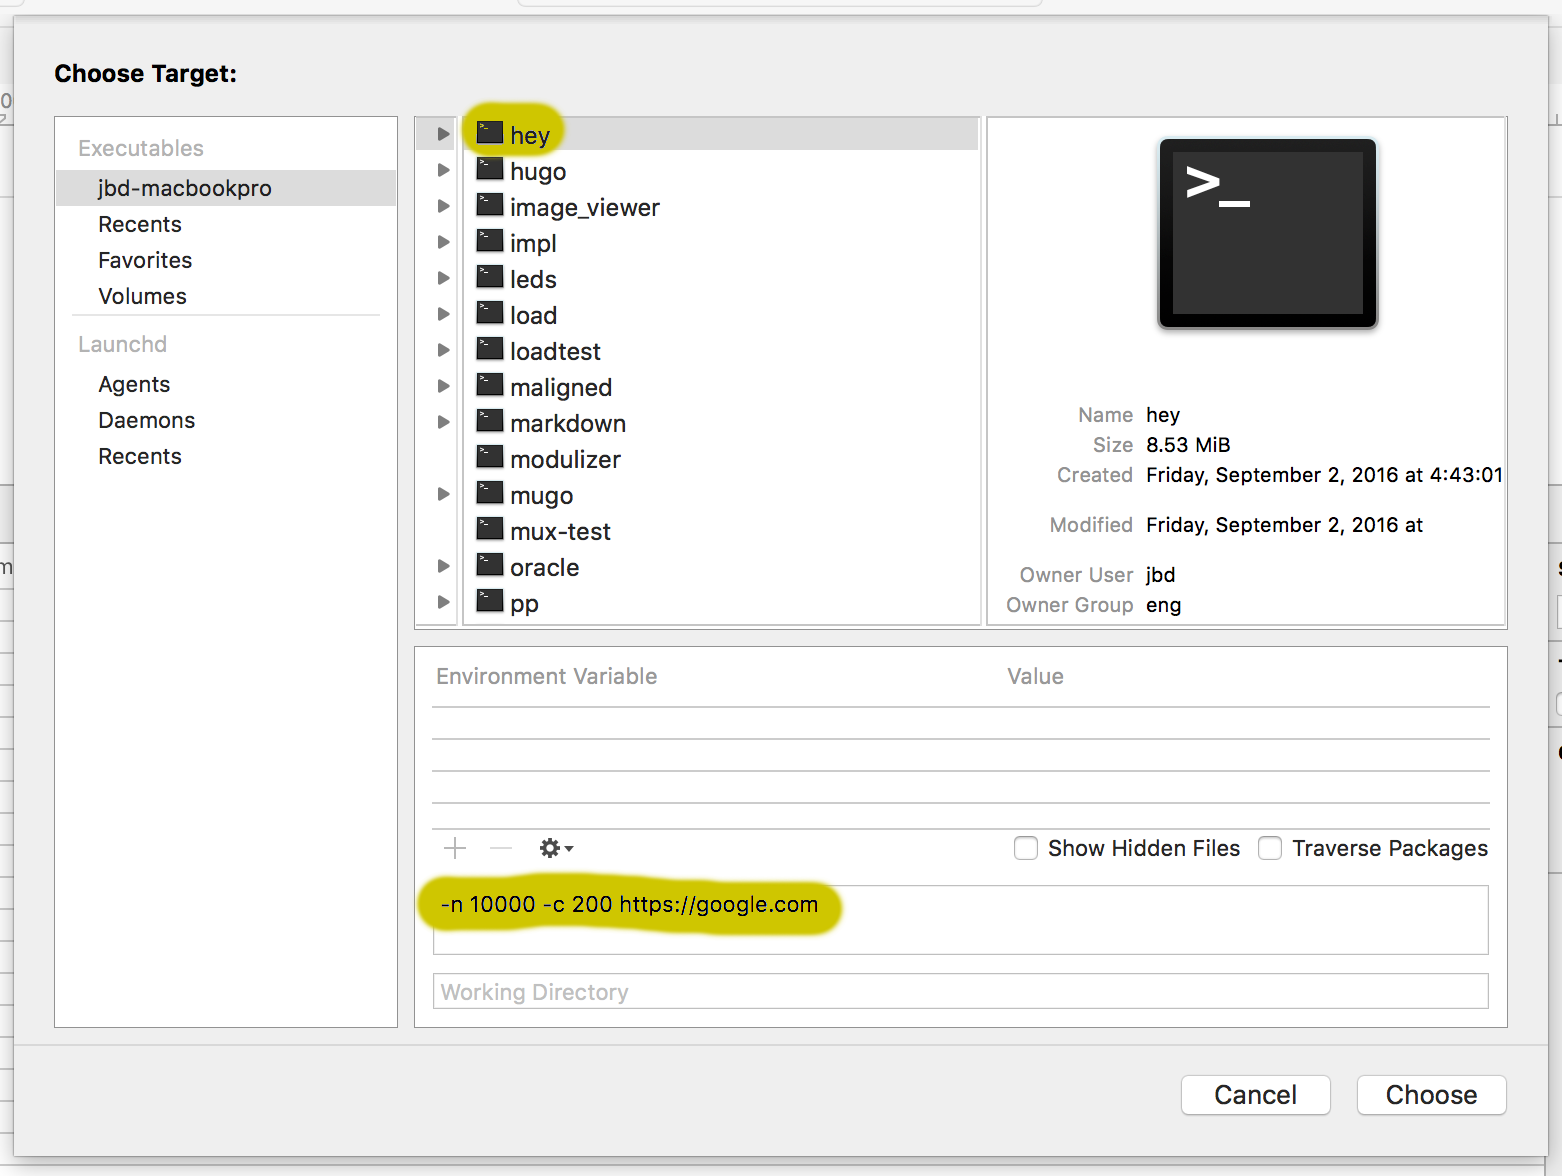
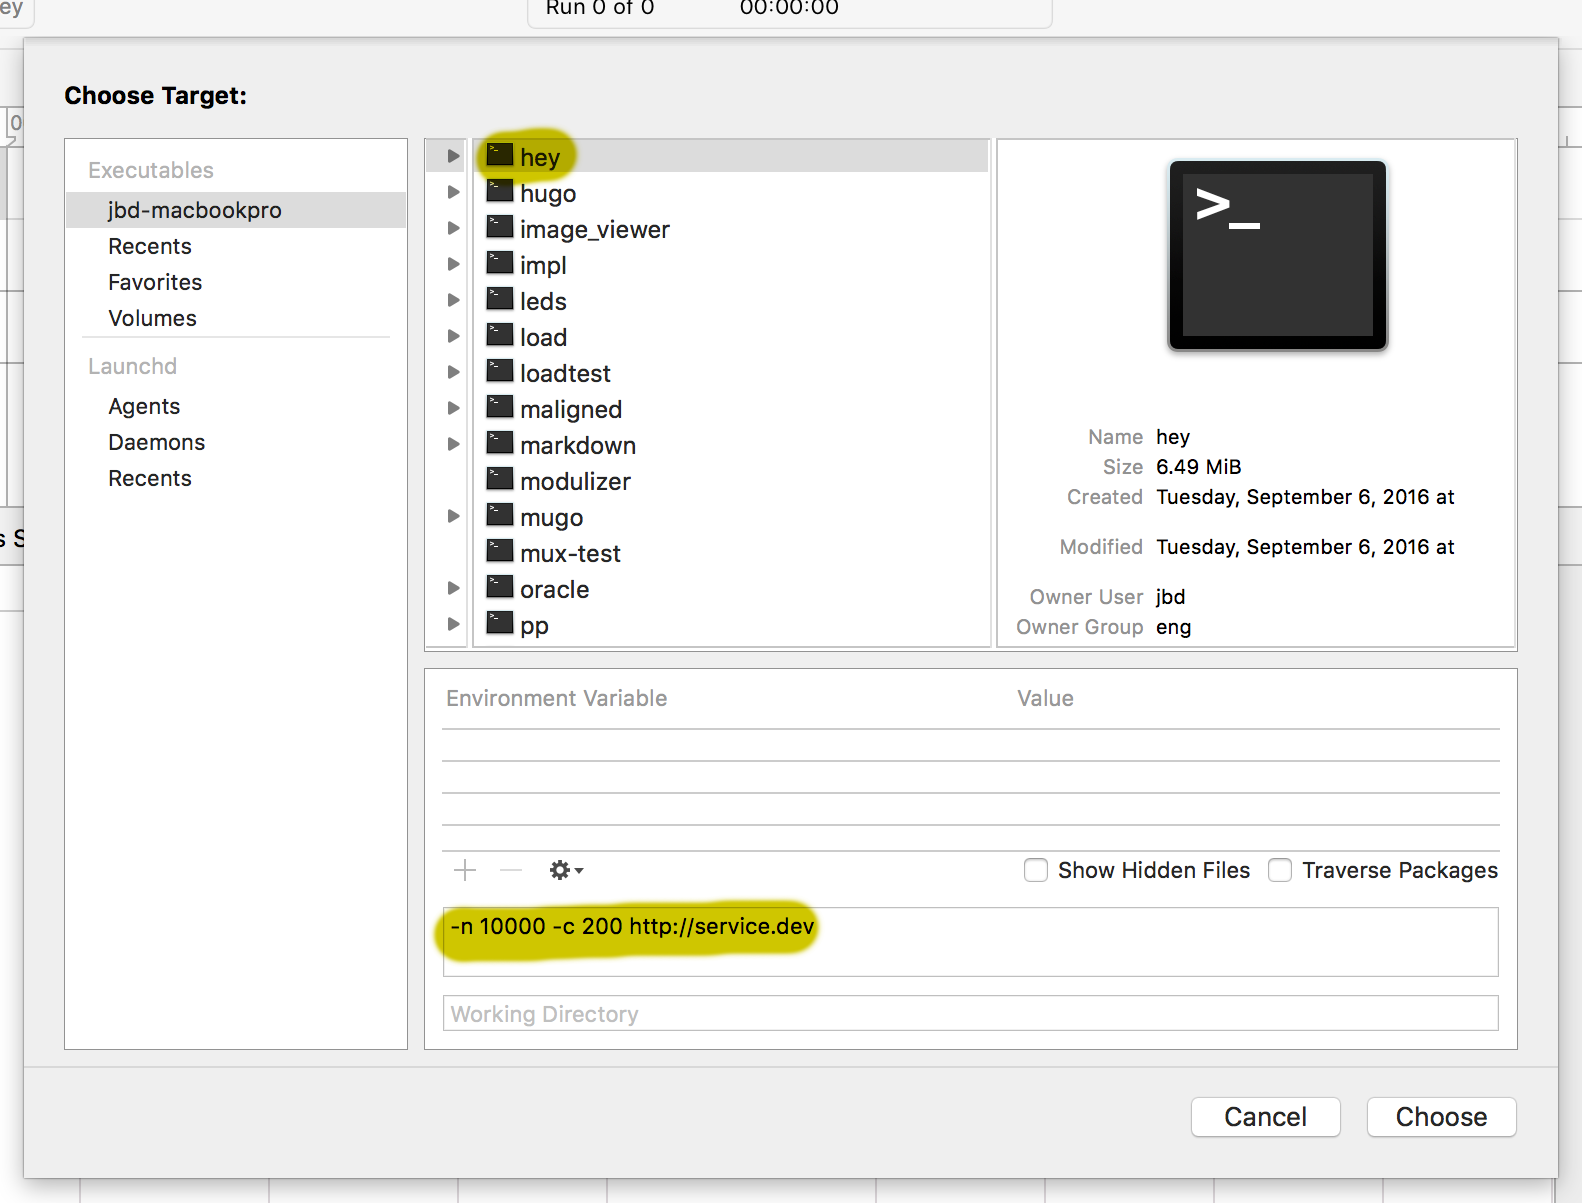
autogenerate

diff --git a/index.html b/index.html
@@ -69,6 +69,73 @@
       
   <div class="post">
     <h1 class="post-title">
+      <a href="http://golang.rakyll.org/instruments/">
+        Using Instruments to profile Go programs
+      </a>
+    </h1>
+
+    <span class="post-date">Fri, Sep 2, 2016</span>
+
+    <p>Apple has a suite of instrumentation and tracing tools for performance
+analysis avaiable as a part of their Xcode tooling set. In this article,
+we will use <a href="https://developer.apple.com/library/prerelease/content/documentation/DeveloperTools/Conceptual/InstrumentsUserGuide/">Instruments</a>
+to record and analyze the CPU profile of a Go program.</p>
+
+<p>Instruments also provide a large set of macOS-specific tracing and profiling
+if you have performance problems specifically on darwin.</p>
+
+<p>Some of these specific profiles are:</p>
+
+<ul>
+<li>System trace: Collects comprehensive information about system calls,
+scheduling, user-kernel space transitions. (Available only on OSX.)</li>
+<li>System usage: Gives very detailed output about I/O system activity.
+(Available only on iOS.)</li>
+<li>File Activity: Monitors file and directory activity such as open/close,
+permission modifications, creation, copying and moving.</li>
+</ul>
+
+<p>Instruments provide a rich and very easy to use UI to display profiles.
+I highly recommend it as an addition to existing profile vizualizers that
+works with Go programs as of today.</p>
+
+<p>Launch the Instruments app and select &ldquo;Time Profiler&rdquo;.</p>
+
+<p>Create a target with your Go binary and arguments and env variables
+you want to start the binary with. In this tutorial, I will use the
+following program.</p>
+
+<pre><code>go get -u github.com/rakyll/hey
+</code></pre>
+
+<p>We will use <code>hey</code> to make 10000 requests with 200 goroutines
+to the target provided in the arguments.</p>
+
+<p>The target I have for <code>hey</code> looks like what&rsquo;s below.</p>
+
+<p><img src="/img/instruments-target.png" alt="Instruments target" /></p>
+
+<p>Once you have a target, you can click on the record button to start
+recording samples. Once enough samples are collected, stop or it will
+eventually stop when the program finishes.</p>
+
+<p><img src="/img/instruments-results.png" alt="Instruments results" /></p>
+
+<p>You can filter by symbol name, user vs kernel callstacks, time span,
+physical or logical CPU and more. You can also double click any of the symbols listed
+to jump to the source code.</p>
+
+<p>Please note that Go programs cannot work with every profile available
+on Instruments. But there are a few profiles that absolutely can improve
+your profiling experience. Give CPU profiling a try, report bugs or
+inconsistencies.</p>
+
+<p>Happy profiling!</p>
+
+  </div>
+  
+  <div class="post">
+    <h1 class="post-title">
       <a href="http://golang.rakyll.org/grpc-streaming/">
         Bidirectional gRPC streaming for Go
       </a>

diff --git a/instruments/index.html b/instruments/index.html
@@ -78,8 +78,9 @@ if you have performance problems specifically on darwin.</p>
 
 <ul>
 <li>System trace: Collects comprehensive information about system calls,
-scheduling, user-kernel space transitions.</li>
-<li>System usage: Gives very detailed output about I/O system activity.</li>
+scheduling, user-kernel space transitions. (Available only on OSX.)</li>
+<li>System usage: Gives very detailed output about I/O system activity.
+(Available only on iOS.)</li>
 <li>File Activity: Monitors file and directory activity such as open/close,
 permission modifications, creation, copying and moving.</li>
 </ul>
@@ -97,6 +98,9 @@ following program.</p>
 <pre><code>go get -u github.com/rakyll/hey
 </code></pre>
 
+<p>We will use <code>hey</code> to make 10000 requests with 200 goroutines
+to the target provided in the arguments.</p>
+
 <p>The target I have for <code>hey</code> looks like what&rsquo;s below.</p>
 
 <p><img src="/img/instruments-target.png" alt="Instruments target" /></p>
@@ -113,7 +117,8 @@ to jump to the source code.</p>
 
 <p>Please note that Go programs cannot work with every profile available
 on Instruments. But there are a few profiles that absolutely can improve
-your profiling experience and meet your filtering requirements.</p>
+your profiling experience. Give CPU profiling a try, report bugs or
+inconsistencies.</p>
 
 <p>Happy profiling!</p>
 

diff --git a/tags/profiling/index.html b/tags/profiling/index.html
@@ -9,7 +9,7 @@
   <meta name="viewport" content="width=device-width, initial-scale=1.0, maximum-scale=1">
 
   
-  <title>Tooling &middot; go bits</title>
+  <title>Profiling &middot; go bits</title>
   
 
   
@@ -23,7 +23,7 @@
   <link rel="shortcut icon" href="/favicon.png">
 
   
-  <link href="http://golang.rakyll.org/tags/tooling/index.xml" rel="alternate" type="application/rss+xml" title="go bits" />
+  <link href="http://golang.rakyll.org/tags/profiling/index.xml" rel="alternate" type="application/rss+xml" title="go bits" />
 </head>
 
 <body class=" layout-reverse">
@@ -68,10 +68,6 @@
         
         <li>
           <span><a href="http://golang.rakyll.org/instruments/">Using Instruments to profile Go programs</a> <time class="pull-right post-list">Fri, Sep 2, 2016</time></span>
-        </li>
-        
-        <li>
-          <span><a href="http://golang.rakyll.org/eg/">eg to apply transformations to Go code</a> <time class="pull-right post-list">Sat, Aug 27, 2016</time></span>
         </li>
         
     </ul>
